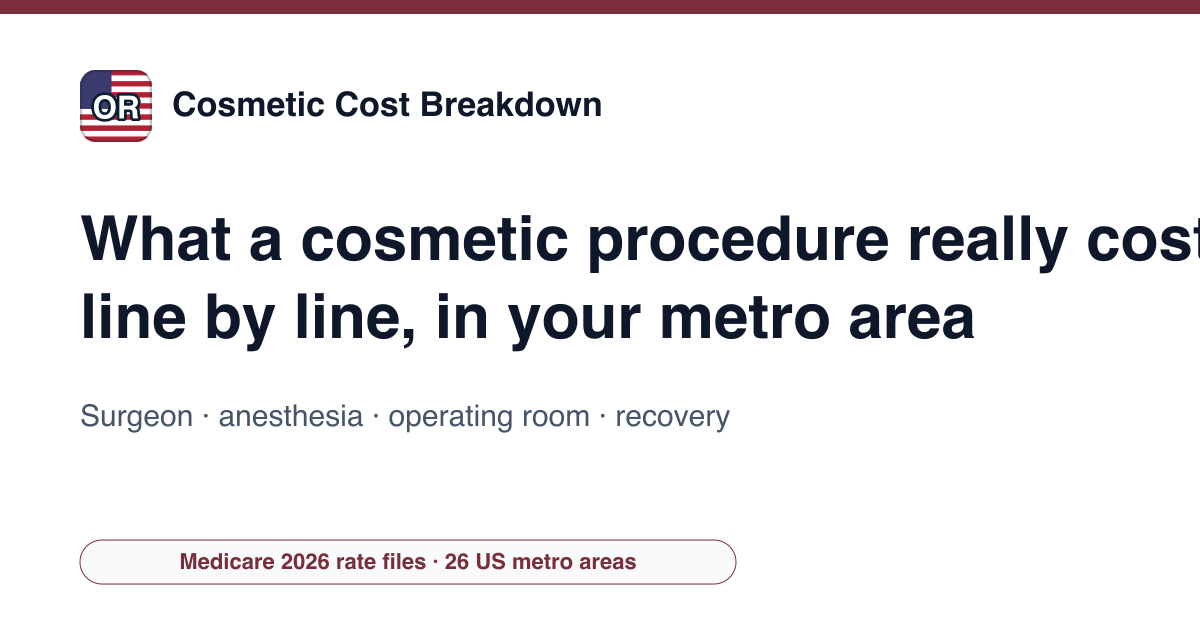
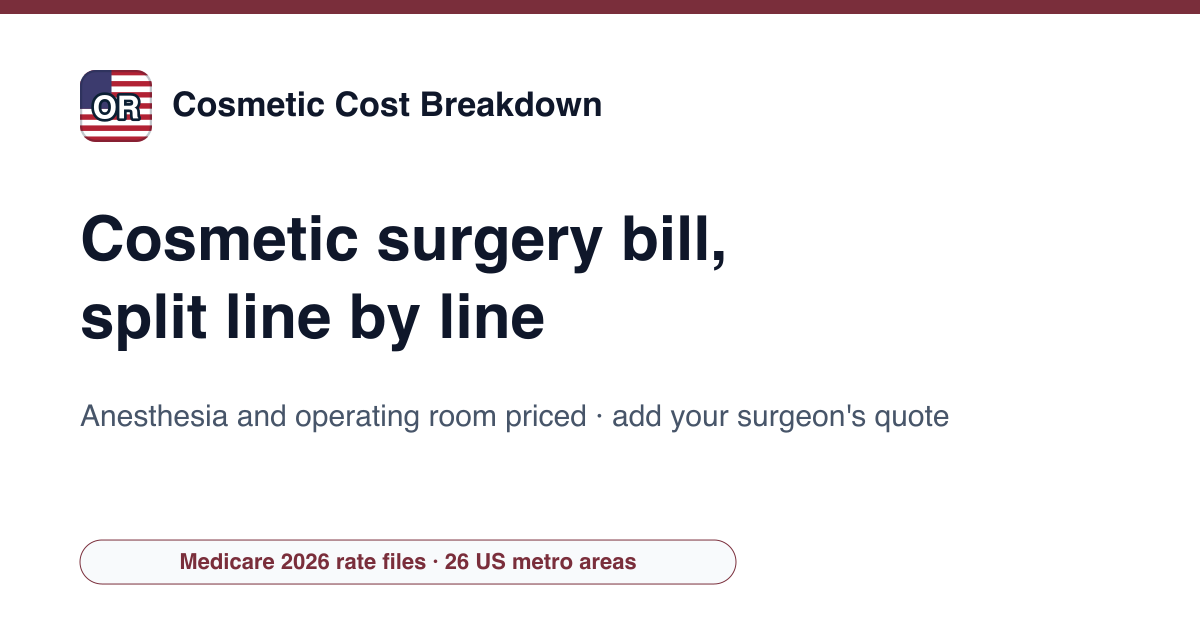
Finition : domaine cosmeticcostbreakdown.com, image OG redessinée, source PubMed pour la durée de liposuction
- Domaine définitif posé (site-config, robots.txt, public/CNAME), contact@cosmeticcostbreakdown.com.
- Image OG : titre sur deux lignes courtes qui tiennent dans la largeur (« really cost… » débordait),
  sans promesse de coût total ; sous-titre « ajoutez le devis de votre chirurgien ».
- Série de liposuction (174 min) : scielo.br répondait 502 par intermittence, remplacée par la
  notice PubMed 23538534 (même article, résumé relu) ; texte de la page corrigé (série de
  20 patientes, 94 à 278 min, et non « liposuction abdominale »).
- Botox : « 11 lines » nommé pour les rides du lion (requête relevée par check-requetes).

Changed region(s): [[0.0617, 0.3317, 1.0, 0.4524], [0.0617, 0.4524, 0.8325, 0.573], [0.0617, 0.6333, 0.8017, 0.6937]]

diff --git a/src/content/procedures/botox-cost.ts b/src/content/procedures/botox-cost.ts
@@ -19,7 +19,7 @@ export default defineGuide({
   description: 'Botox cost in 2026: units per area from the FDA label, the toxin price per unit at the Medicare payment limit, your quote per unit and the yearly cost.',
   h1: 'Botox cost: units, price per unit and the fee per session',
   intro: 'Choose the area and, if you have one, the price per unit you were quoted: the units come from the FDA label, the toxin cost from the Medicare file.',
-  resume: `The price of a botulinum toxin session rests on units. The FDA label of Botox Cosmetic, onabotulinumtoxinA, sets the dose for each approved area: ${A.glabellar.units} units for the frown lines between the brows, ${A.crows.units} for crow's feet on both sides, ${A.forehead.units} for forehead lines treated together with the frown lines, ${A.upper3.units} for the three areas at once. Medicare's payment limit for the drug itself, code J0585, is ${K.cents(lim)} a unit in the October 2026 file, so the toxin for the frown lines costs about ${K.usd(prod(A.glabellar.units))} at that price and the three areas about ${K.usd(prod(A.upper3.units))}. Practices usually quote a price per unit that includes the injector's time and their margin, which is why a quote per unit is several times the Medicare limit. No public file publishes what injectors charge, so the calculator compares the price per unit you were quoted with the toxin's own cost, rather than with an average.`,
+  resume: `The price of a botulinum toxin session rests on units. The FDA label of Botox Cosmetic, onabotulinumtoxinA, sets the dose for each approved area: ${A.glabellar.units} units for the frown lines between the brows, often called the 11 lines, ${A.crows.units} for crow's feet on both sides, ${A.forehead.units} for forehead lines treated together with the frown lines, ${A.upper3.units} for the three areas at once. Medicare's payment limit for the drug itself, code J0585, is ${K.cents(lim)} a unit in the October 2026 file, so the toxin for the frown lines costs about ${K.usd(prod(A.glabellar.units))} at that price and the three areas about ${K.usd(prod(A.upper3.units))}. Practices usually quote a price per unit that includes the injector's time and their margin, which is why a quote per unit is several times the Medicare limit. No public file publishes what injectors charge, so the calculator compares the price per unit you were quoted with the toxin's own cost, rather than with an average.`,
   body: (h) => `
 <h2>Units per area, from the label</h2>
 <p>The ${h.src('fda_botox_label', 'FDA-approved label')} of onabotulinumtoxinA for cosmetic use, revised ${K.day(B.labelDate)}, gives a fixed dose for each indication. It is the only official reference for how many units an area takes; injectors adjust doses to each patient, and areas outside the label are treated off label at doses the label does not set. The table multiplies each labeled dose by the Medicare payment limit for the drug, which is the closest public price of the toxin itself.</p>

diff --git a/src/content/procedures/liposuction-cost.ts b/src/content/procedures/liposuction-cost.ts
@@ -32,7 +32,7 @@ ${h.table(['Line', 'National benchmark', 'Basis'], [
   ], 'Medicare 2026 national rates; the surgeon line is left to your quote.', ['l', 'r', 'l'])}
 
 <h2>Time drives the anesthesia line</h2>
-<p>The CMS physician time file leaves CPT 15877 blank, so the default of ${Math.round(a.minutes)} minutes is the mean operating time of a ${h.src('study_lipo', 'published series of abdominal liposuction')}. Real sessions vary widely with the volume removed and the number of regions. At the national anesthesia factor, a 90-minute session costs ${K.usd(short)} in anesthesia and a five-hour session ${K.usd(long)}. Tumescent liposuction, the most common technique according to MedlinePlus, injects a solution containing a local anesthetic, and some small procedures are done with that alone: the anesthesia line then shrinks or disappears, which the calculator lets you show by typing your own quote.</p>
+<p>The CMS physician time file leaves CPT 15877 blank, so the default of ${Math.round(a.minutes)} minutes is the mean liposuction time of a ${h.src('study_lipo', 'published series of 20 patients')}, whose sessions ran from 94 to 278 minutes. Real sessions vary widely with the volume removed and the number of regions. At the national anesthesia factor, a 90-minute session costs ${K.usd(short)} in anesthesia and a five-hour session ${K.usd(long)}. Tumescent liposuction, the most common technique according to MedlinePlus, injects a solution containing a local anesthetic, and some small procedures are done with that alone: the anesthesia line then shrinks or disappears, which the calculator lets you show by typing your own quote.</p>
 ${h.mini('anesthesia', { t: 'Anesthesia for your liposuction time', p: ['am', 'mx'], d: { pr: 'lipo', am: 240 } })}
 
 <h2>Liposuction added to another operation</h2>

diff --git a/src/data/site-config.ts b/src/data/site-config.ts
@@ -1,5 +1,5 @@
 /** Configuration centrale du site (générée par new-site.py). */
-export const SITE_URL = "https://us-cosmetic-costs.example";
+export const SITE_URL = "https://cosmeticcostbreakdown.com";
 export const SITE_NAMES: Record<string, string> = {"en": "Cosmetic Cost Breakdown"};
 export const LANG_TAGS: Record<string, string> = {"en": "en-US"};
 export const OG_LOCALES: Record<string, string> = {"en": "en_US"};
@@ -16,7 +16,7 @@ export const AUTHOR_DESC: Record<string, string> = {"en": "Radif Partners splits
  *  themes reellement traites par le site, pas une liste de mots-cles : un sujet
  *  declare ici sans page qui le couvre est une declaration fausse. */
 export const KNOWS_ABOUT: Record<string, string[]> = {"en": ["Tummy tuck, liposuction and Brazilian butt lift costs", "Breast augmentation, breast lift and facelift costs", "Botox (onabotulinumtoxinA) treatment costs by area", "Anesthesia billing with base units and time units", "Surgery center and hospital outpatient facility fees"]};
-export const CONTACT_EMAIL = "contact@us-cosmetic-costs.example";
+export const CONTACT_EMAIL = "contact@cosmeticcostbreakdown.com";
 export const THEME_COLOR = '#7A2E3B';
 export const LOGO_SYMBOL = 'OR';
 export const BING_VERIFY_CODE = '';
